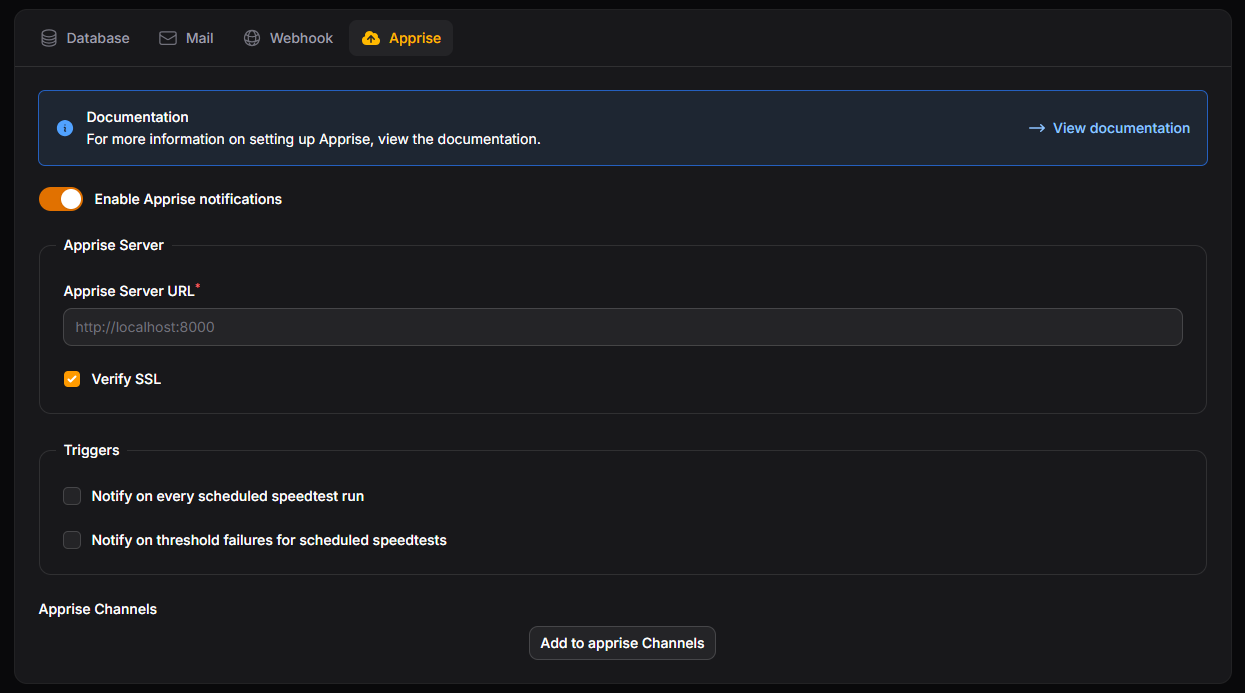
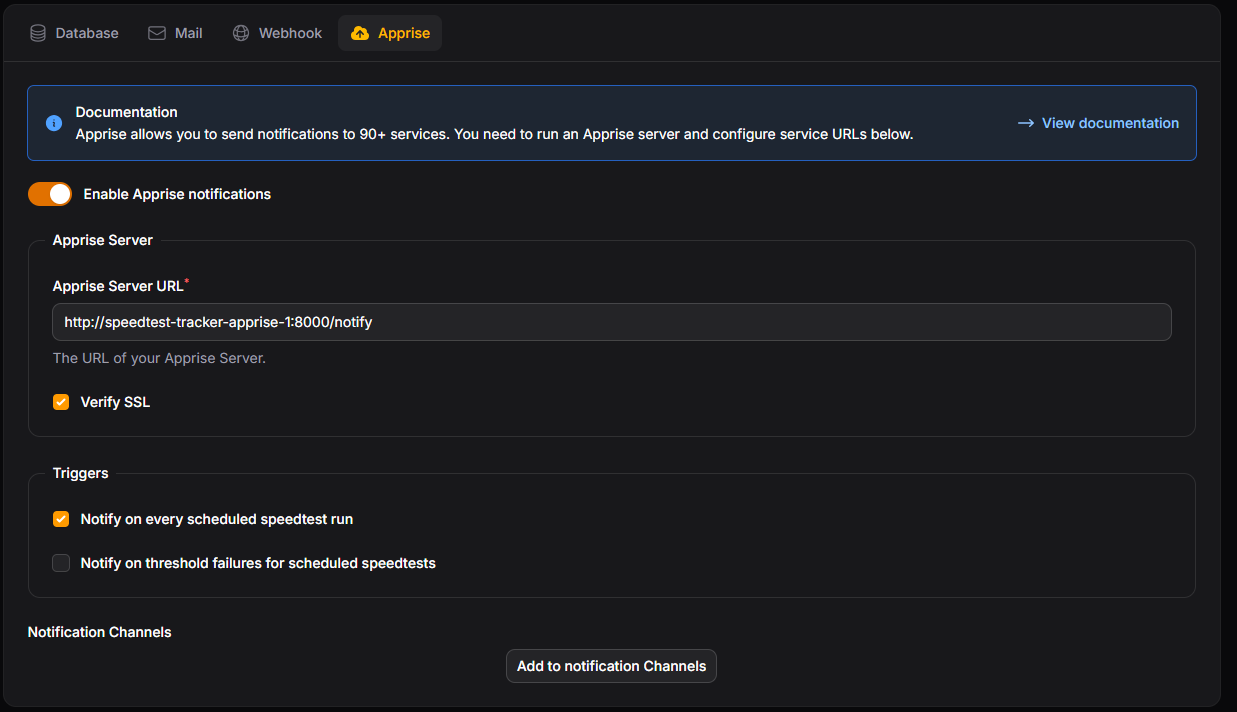
GitBook: No commit message

diff --git a/settings/notifications/apprise.md b/settings/notifications/apprise.md
@@ -4,14 +4,32 @@ Apprise provides a unified notification channel that lets you send alerts to num
 
 <figure><img src="../../.gitbook/assets/apprise_notifiations.png" alt=""><figcaption><p>Apprise settings</p></figcaption></figure>
 
+### Why Apprise
+
+Apprise allows the application to sent notifications to a wide variety of services. It let us focus on features instead of maintaining X number of notification channels. Essentially helping us cut down on maintenance/feature requests.
+
 ### Apprise Server
 
-To use Apprise, you’ll need to set up your own Apprise container. This container isn’t created automatically, so make sure to include it in your deployment. See the Apprise [Github Repo](https://github.com/caronc/apprise-api) for the setup instructions.
+To use Apprise, you’ll need to set up your own Apprise instance. This container isn’t created automatically, so make sure to include it in your deployment. See the Apprise [Github Repo](https://github.com/caronc/apprise-api) for the setup instructions. On the notification page you will need to define the location of your Apprise instance. Make sure this instance is reachable for the Speedtest Tracker.
 
-### Apprise Channels
+{% hint style="info" %}
+We don't offer support on setting up Apprise, incase of any problems with the Apprise Container please reach out to the Apprise team.&#x20;
+{% endhint %}
 
-Apprise channels are the formatted URLs used by Apprise to send notifications to various services. Refer to the [Apprise documentation](https://github.com/caronc/apprise?tab=readme-ov-file#supported-notifications) for a full list of supported channels and their required formats.
+### Notification Channels
+
+Notification channels are the formatted URLs used by Apprise to send notifications to various services. Refer to the [Apprise documentation](https://github.com/caronc/apprise?tab=readme-ov-file#supported-notifications) for a full list of supported channels and their required formats. You can add as many different channels as you wish. The notifications will be sent to all of them.&#x20;
+
+### Tips and Tricks
+
+#### Format
+
+By default the format used for message is `markdown`  This allows us to do some formatting on the message like bold text etc.
+
+#### Preview Images
+
+By default Apprise does not allow preview images for URLs. This is an default setting on the Apprise instance. Depending on the service used you can override this settings in the notification channel URL. Check the Apprise documentation to see if your service support this and how to set it.&#x20;
 
 ### Triggers
 
-<table><thead><tr><th width="237">Name</th><th>Description</th></tr></thead><tbody><tr><td>on every scheduled speedtest run</td><td>On each successful scheduled speedtest a notification will be send to the application.</td></tr><tr><td>on threshold failures for scheduled speedtests</td><td>On any absolute threshold failure for scheduled speedtest  a notification will be send to the application.</td></tr></tbody></table>
+<table><thead><tr><th width="237">Name</th><th>Description</th></tr></thead><tbody><tr><td>on every scheduled speedtest run</td><td>On each successful scheduled speedtest a notification will be send to the application.</td></tr><tr><td>on threshold failures for scheduled speedtests</td><td>On any absolute threshold failure for scheduled speedtest a notification will be send to the application.</td></tr></tbody></table>
